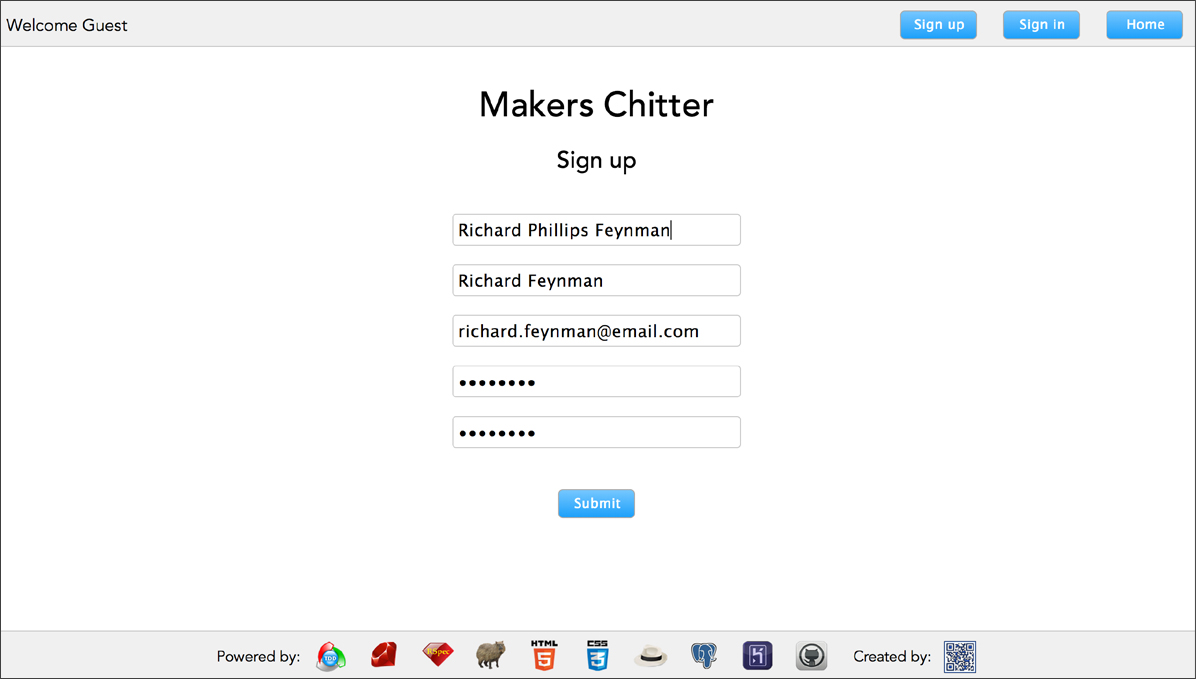
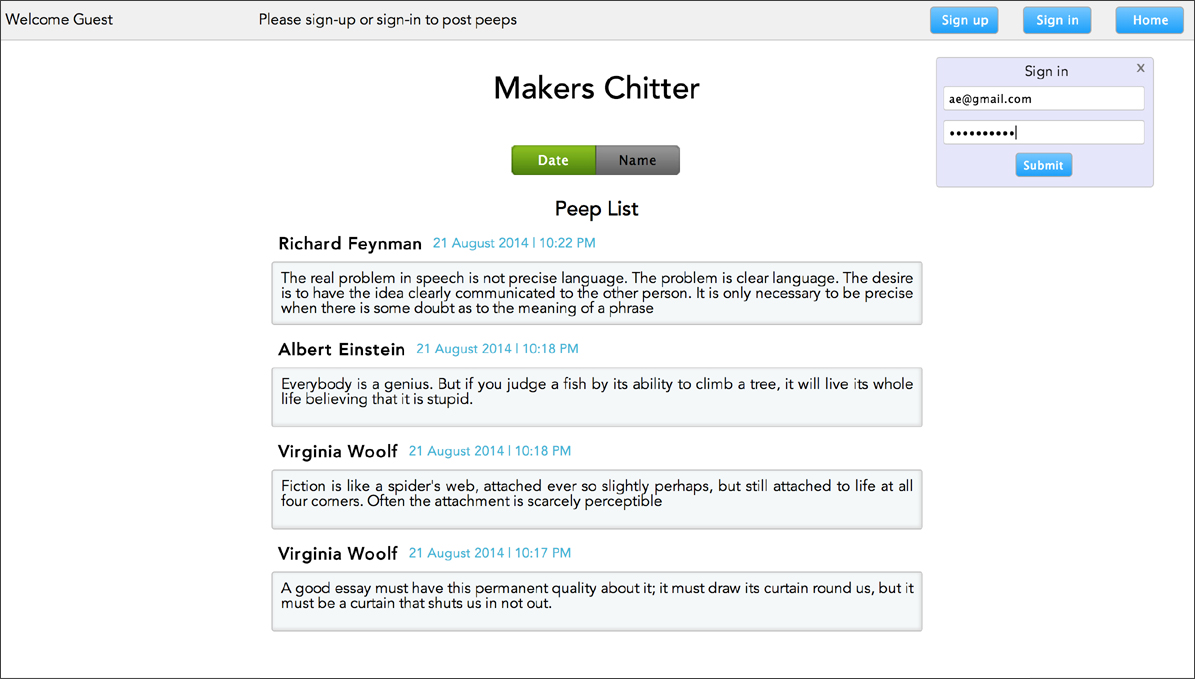
updated README file

diff --git a/README.md b/README.md
@@ -48,9 +48,13 @@ The core of <strong>Makers Chitter</strong> was written over a weekend as an exe
 in building an instant messaging web app for students 
 at [Makers Mcademy](http://www.makersacademy.com/).
 
-Later on parts of the app were re-written (mainly the front-side) to give it
+__Update (21.8.14):__ parts of the app were re-written (mainly the front-side) to give it
 a nicer look, and a toggle-button was added which enables to display the list 
 of peeps either according to the date of posting or the author's name.
+
+__Update (23.8.14):__ added a new jQuery-based popup window in the main page for the 
+sign in functionality (replacing the previous separate sign in page). Updated feature 
+tests to accommodate the changes. 
 
 In a nutshell, the guidlines for building the app were:
 
